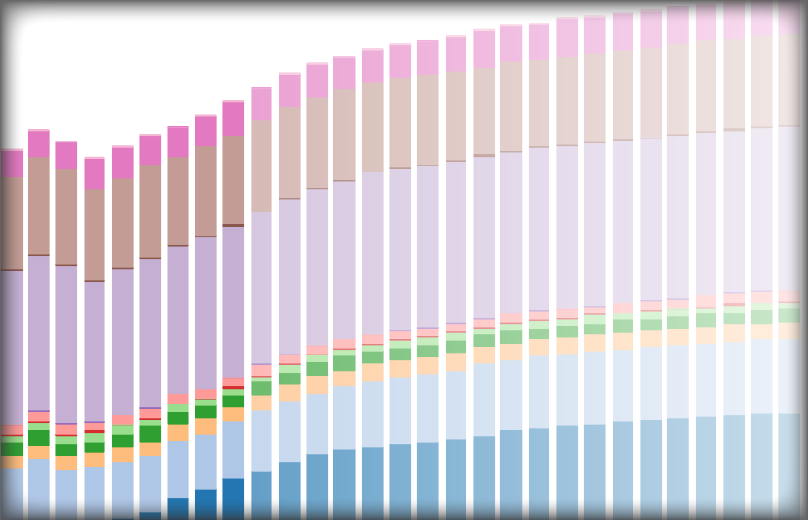
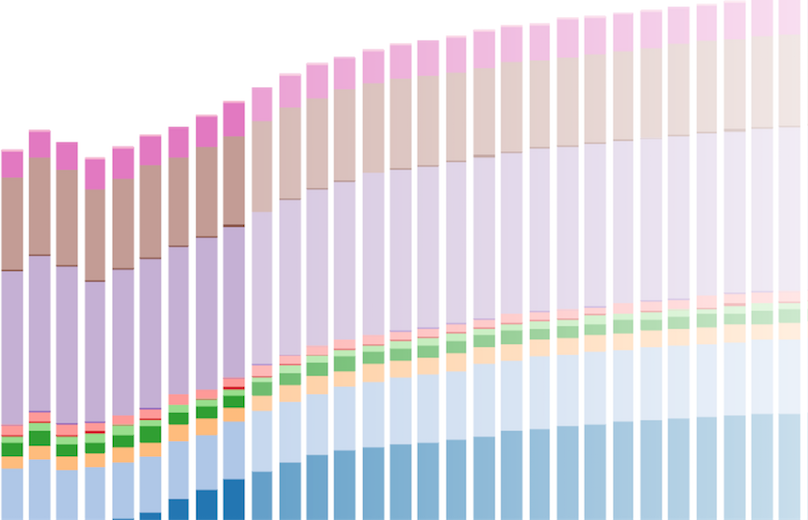
Updated the landing page thumbnails

diff --git a/public/CSS/canadasEnergyFutureVisualization.css b/public/CSS/canadasEnergyFutureVisualization.css
@@ -229,58 +229,29 @@
   font-family: Avenir Next Condensed, 'PT Sans Narrow', Arial Narrow, Arial, Verdana, sans-serif;
 }
 
+
+
 #canadasEnergyFutureVisualization .viz1Img {
-  background-image: url("../IMG/landingPageThumb/vis1_202.png");
+  background-image: url("../IMG/landingPageThumb/vis1_808.png");
   background-size: cover;
   background-position:50% 50%;  /* Sets reference point to scale from */
 }
-
 #canadasEnergyFutureVisualization .viz2Img {
+  background-image: url("../IMG/landingPageThumb/vis2_808.png");
   background-size: cover;
-  background-image: url("../IMG/landingPageThumb/vis2_202.png");
   background-position:50% 50%;  /* Sets reference point to scale from */
-
 }
 #canadasEnergyFutureVisualization .viz3Img {
-  background-image: url("../IMG/landingPageThumb/vis3_202.png");
-  background-position:50% 50%;  /* Sets reference point to scale from */
+  background-image: url("../IMG/landingPageThumb/vis3_808.png");
   background-size: cover;
-
+  background-position:50% 50%;  /* Sets reference point to scale from */
 }
 #canadasEnergyFutureVisualization .viz4Img {
-  background-image: url("../IMG/landingPageThumb/vis4_202.png");
+  background-image: url("../IMG/landingPageThumb/vis4_808.png");
+  background-size: cover;
   background-position:50% 50%;  /* Sets reference point to scale from */
-  background-size:cover;  
-
 }
 
-@media only screen and (min--moz-device-pixel-ratio: 1.5),
-    (-o-min-device-pixel-ratio: 3/2),
-    (-webkit-min-device-pixel-ratio: 1.5),
-    (min-device-pixel-ratio: 1.5) {
-
-  #canadasEnergyFutureVisualization .viz1Img {
-    background-image: url("../IMG/landingPageThumb/vis1_808.png");
-    background-size: cover;
-    background-position:50% 50%;  /* Sets reference point to scale from */
-  }
-  #canadasEnergyFutureVisualization .viz2Img {
-    background-image: url("../IMG/landingPageThumb/vis2_808.png");
-    background-size: cover;
-    background-position:50% 50%;  /* Sets reference point to scale from */
-  }
-  #canadasEnergyFutureVisualization .viz3Img {
-    background-image: url("../IMG/landingPageThumb/vis3_808.png");
-    background-size: cover;
-    background-position:50% 50%;  /* Sets reference point to scale from */
-  }
-  #canadasEnergyFutureVisualization .viz4Img {
-    background-image: url("../IMG/landingPageThumb/vis4_808.png");
-    background-size: cover;
-    background-position:50% 50%;  /* Sets reference point to scale from */
-  }
-
-}
 
 #canadasEnergyFutureVisualization #thumbnailRow {
   padding-top: 10px;
